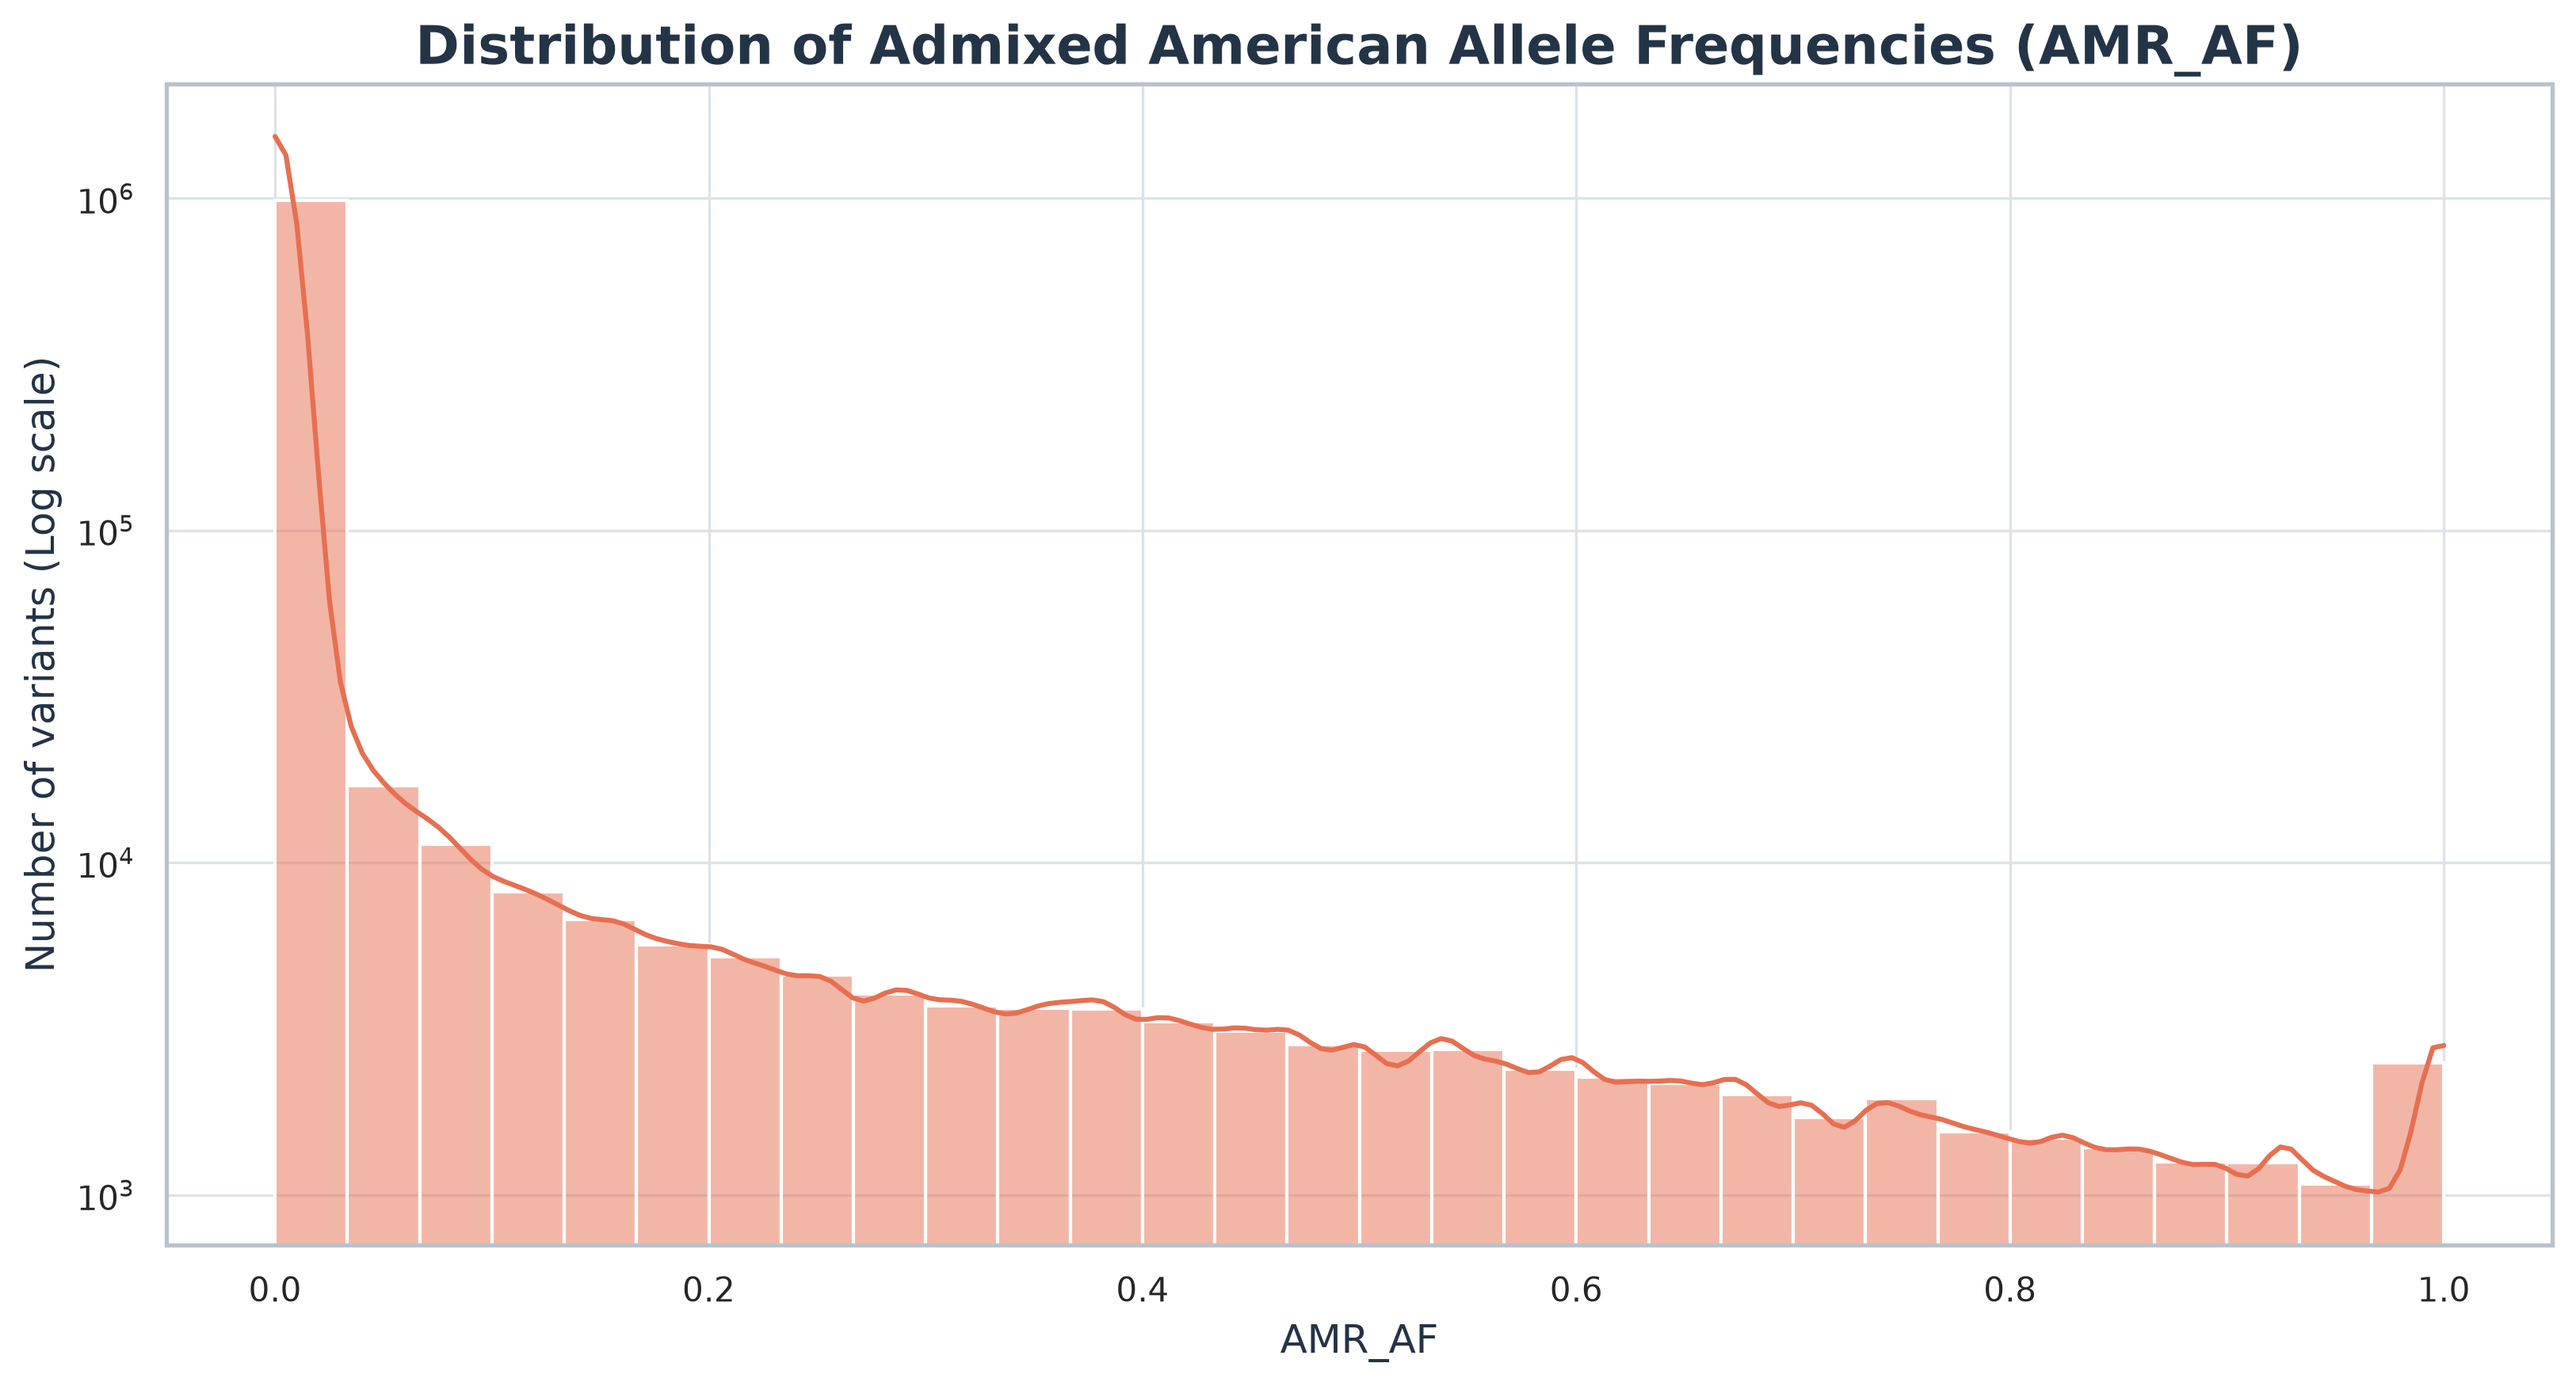
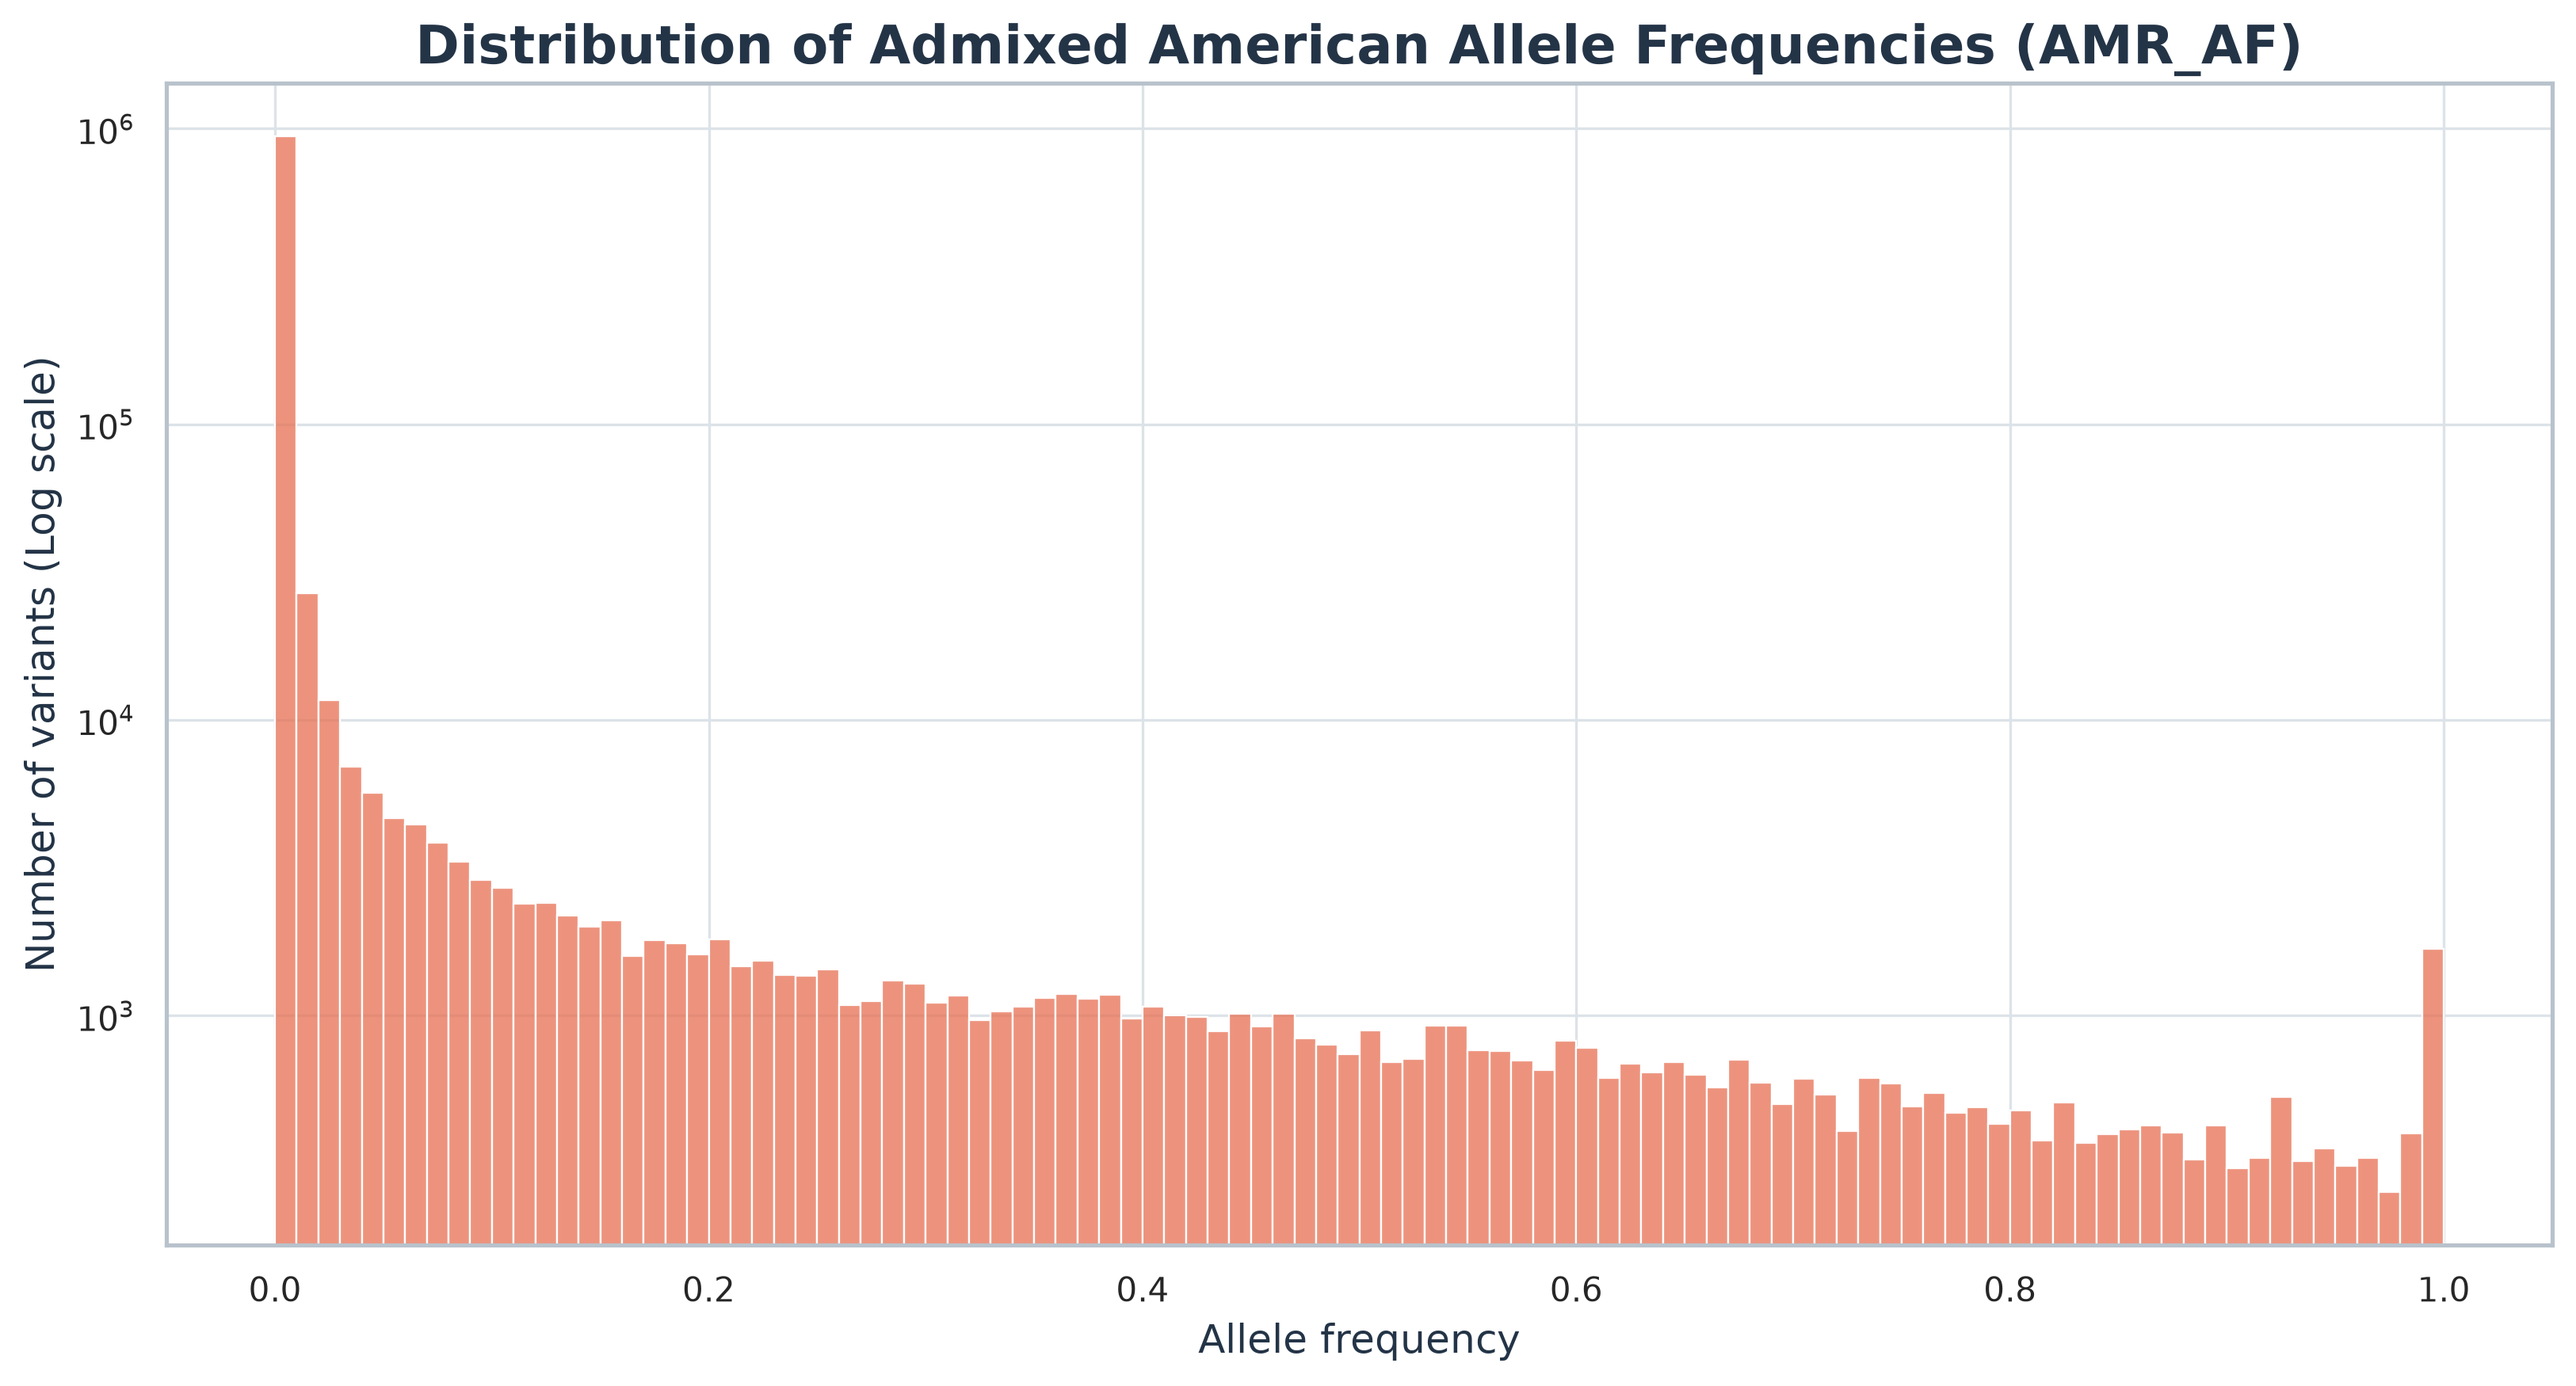
feat: VCF exploration, extraction pipeline and EDA with figures

diff --git a/src/variantes_genomicas/EDA.py b/src/variantes_genomicas/EDA.py
@@ -66,16 +66,16 @@ print(df_variants["CHROM"].sample(5))
 plt.figure(figsize=(11, 6))
 sns.histplot(
 	data=df_variants,
-	x="POS",
+	x=df_variants["POS"] / 1_000_000,
 	bins=60,
 	kde=False,
 	color=PALETTE["EUR_AF"],
 )
 plt.title('Distribution of Variant Positions on Chromosome 22')
-plt.xlabel('Chromosomal position')
+plt.xlabel('Chromosomal position (Mb)')
 plt.ylabel('Number of variants')
 plt.tight_layout()
-plt.savefig("results\\results\\figures\\POS_Distribution.png")
+plt.savefig("results\\figures\\POS_Distribution.png")
 plt.show()
 
 # ID - nos indica el identificador de la variante, si no tiene, es un punto (.) Como hemos visto no tiene ID, por lo que no nos aporta información relevante. Podemos eliminarla.
@@ -100,7 +100,7 @@ plt.xlabel("Reference allele")
 plt.ylabel("Number of variants (log scale)")
 plt.yscale("log")
 plt.tight_layout()
-plt.savefig("results\\results\\figures\\REF_count.png")
+plt.savefig("results\\figures\\REF_count.png")
 plt.show()
 
 # ALT - nos indica los alelos alternativos en esa posicion
@@ -124,7 +124,7 @@ plt.xlabel("Alternative allele")
 plt.ylabel("Number of variants (log scale)")
 plt.yscale("log")
 plt.tight_layout()
-plt.savefig("results\\results\\figures\\ALT_count.png")
+plt.savefig("results\\figures\\ALT_count.png")
 plt.show()
 
 # QUAL - nos indica la calidad de la variante, es un valor numérico que indica la confianza en la llamada de variante. Podemos visualizar su distribución.
@@ -153,16 +153,17 @@ plt.figure(figsize=(11, 6))
 sns.histplot(
 	data=df_variants,
 	x="EAS_AF",
-	bins=30,
-	kde=True,
+	bins=100,
+	binrange=(0.0, 1.0),
+	kde=False,
 	color=PALETTE["EAS_AF"],
 )
 plt.title("Distribution of East Asian Allele Frequencies (EAS_AF)")
 plt.yscale("log")
-plt.xlabel("EAS_AF")
+plt.xlabel("Allele frequency")
 plt.ylabel("Number of variants (Log scale)")
 plt.tight_layout()
-plt.savefig("results\\results\\figures\\EAS_Distribution.png")
+plt.savefig("results\\figures\\EAS_Distribution.png")
 plt.show()
 
 # AMR_AF - Frecuencia alelica para cada alelo alternativo en la población Admixed American (AMR). Valor numérico entre 0 y 1 que indica la proporción de alelos alternativos en la población AMR.
@@ -173,16 +174,17 @@ plt.figure(figsize=(11, 6))
 sns.histplot(
 	data=df_variants,
 	x="AMR_AF",
-	bins=30,
-	kde=True,
+	bins=100,
+	binrange=(0.0, 1.0),
+	kde=False,
 	color=PALETTE["AMR_AF"],
 )
 plt.title("Distribution of Admixed American Allele Frequencies (AMR_AF)")
 plt.yscale("log")
-plt.xlabel("AMR_AF")
+plt.xlabel("Allele frequency")
 plt.ylabel("Number of variants (Log scale)")
 plt.tight_layout()
-plt.savefig("results\\results\\figures\\AMR_Distribution.png")
+plt.savefig("results\\figures\\AMR_Distribution.png")
 plt.show()
 
 # AFR_AF - Frecuencia alelica para cada alelo alternativo en la población Africana (AFR). Valor numérico entre 0 y 1 que indica la proporción de alelos alternativos en la población AFR.
@@ -193,16 +195,17 @@ plt.figure(figsize=(11, 6))
 sns.histplot(
 	data=df_variants,
 	x="AFR_AF",
-	bins=30,
-	kde=True,
+	bins=100,
+	binrange=(0.0, 1.0),
+	kde=False,
 	color=PALETTE["AFR_AF"],
 )
-plt.title("Distribution of Admixed American Allele Frequencies (AFR_AF)")
+plt.title("Distribution of African Allele Frequencies (AFR_AF)")
 plt.yscale("log")
-plt.xlabel("AFR_AF")
+plt.xlabel("Allele frequency")
 plt.ylabel("Number of variants (Log scale)")
 plt.tight_layout()
-plt.savefig("results\\results\\figures\\AFR_Distribution.png")
+plt.savefig("results\\figures\\AFR_Distribution.png")
 plt.show()
 
 # EUR_AF - Frecuencia alelica para cada alelo alternativo en la población Europea (EUR). Valor numérico entre 0 y 1 que indica la proporción de alelos alternativos en la población EUR.
@@ -213,16 +216,17 @@ plt.figure(figsize=(11, 6))
 sns.histplot(
 	data=df_variants,
 	x="EUR_AF",
-	bins=30,
-	kde=True,
+	bins=100,
+	binrange=(0.0, 1.0),
+	kde=False,
 	color=PALETTE["EUR_AF"],
 )
-plt.title("Distribution of Admixed American Allele Frequencies (EUR_AF)")
+plt.title("Distribution of European Allele Frequencies (EUR_AF)")
 plt.yscale("log")
-plt.xlabel("EUR_AF")
+plt.xlabel("Allele frequency")
 plt.ylabel("Number of variants (Log scale)")
 plt.tight_layout()
-plt.savefig("results\\results\\figures\\EUR_Distribution.png")
+plt.savefig("results\\figures\\EUR_Distribution.png")
 plt.show()
 
 # SAS_AF - Frecuencia alelica para cada alelo alternativo en la población Sur Asiatica (SAS). Valor numérico entre 0 y 1 que indica la proporción de alelos alternativos en la población SAS.
@@ -233,16 +237,17 @@ plt.figure(figsize=(11, 6))
 sns.histplot(
 	data=df_variants,
 	x="SAS_AF",
-	bins=30,
-	kde=True,
+	bins=100,
+	binrange=(0.0, 1.0),
+	kde=False,
 	color=PALETTE["SAS_AF"],
 )
-plt.title("Distribution of Admixed American Allele Frequencies (SAS_AF)")
+plt.title("Distribution of South Asian Allele Frequencies (SAS_AF)")
 plt.yscale("log")
-plt.xlabel("SAS_AF")
+plt.xlabel("Allele frequency")
 plt.ylabel("Number of variants (Log scale)")
 plt.tight_layout()
-plt.savefig("results\\results\\figures\\SAS_Distribution.png")
+plt.savefig("results\\figures\\SAS_Distribution.png")
 plt.show()
 
 # VT - indioca el tipo de variante genomica
@@ -254,15 +259,13 @@ sns.countplot(
     data=df_variants,
     x="VT",
     color=PALETTE["VT"],
-    hue="VT",
-    legend=False
 )
-plt.title("Frecuency of Variant Type (VT INFO field)")
+plt.title("Frequency of Variant Type (VT INFO field)")
 plt.yscale("log")
 plt.xlabel("Genetic Variant Type")
 plt.ylabel("Number of variants (log scale)")
 plt.tight_layout()
-plt.savefig("results\\results\\figures\\VT_frecuency.png")
+plt.savefig("results\\figures\\VT_frecuency.png")
 plt.show()
 
 # BOXPLOT de distribucion de frecuencias alelicas por poblacion
@@ -294,14 +297,20 @@ sns.boxplot(
     x="Population",
     y="Allele frequency",
     order=["EAS", "AFR", "AMR", "SAS", "EUR"],
+	hue="Population",
+	hue_order=["EAS", "AFR", "AMR", "SAS", "EUR"],
     palette=[palette_by_population[p] for p in ["EAS", "AFR", "AMR", "SAS", "EUR"]],
+	dodge=False,
+	legend=False,
+	showfliers=False,
 )
-plt.title("Distribution of Allele Frequency by Population")
-plt.yscale("log")
+plt.title("Allele Frequency by Population (0-1.5% zoom)")
+plt.ylim(0, 0.015)
+plt.yticks([0, 0.005, 0.01, 0.015], ["0%", "0.5%", "1.0%", "1.5%"])
 plt.xlabel("Population")
 plt.ylabel("Allele frequency")
 plt.tight_layout()
-plt.savefig("results\\results\\figures\\boxplot.png")
+plt.savefig("results\\figures\\boxplot.png")
 plt.show()
 
 plt.figure(figsize=(11, 6))
@@ -310,14 +319,29 @@ sns.violinplot(
     x="Population",
     y="Allele frequency",
     order=["EAS", "AFR", "AMR", "SAS", "EUR"],
+	hue="Population",
+	hue_order=["EAS", "AFR", "AMR", "SAS", "EUR"],
     palette=[palette_by_population[p] for p in ["EAS", "AFR", "AMR", "SAS", "EUR"]],
+	dodge=False,
+	legend=False,
+	cut=0,
 )
-plt.title("Distribution of Allele Frequency by Population")
-plt.yscale("log")
+plt.title("Allele Frequency by Population (0-5% zoom)")
+plt.ylim(0, 0.05)
+plt.yticks([0, 0.01, 0.02, 0.03, 0.04, 0.05], ["0%", "1%", "2%", "3%", "4%", "5%"])
 plt.xlabel("Population")
 plt.ylabel("Allele frequency")
 plt.tight_layout()
-plt.savefig("results\\results\\figures\\violinplot.png")
+plt.savefig("results\\figures\\violinplot.png")
 plt.show()
+
+# EDA ASUMPTIONS:
+# 1. Hay varias columnas que no aportan variabilidad a la informacion, es decir, son constantes en todos los datos --> Valores estaticos: CHROM, QUAL, FILTER, FORMAT, ID
+# 2. Mayor presencia de variantes genicas como INDEL o SNP frente a otras
+# 3. Mayor frecuencia de las bases de A G C T frente a otras en las referencias alelicas
+# 4. No existe mucha diferencia entre la posicion de las variantes en la posicion del cromosoma
+# 5. La poblacion africana es la que presenta una distribucion e variaciones alelicas mas llamativa frente al resto de poblaciones
+
+
 
 

diff --git a/src/variantes_genomicas/explore_vcf.py b/src/variantes_genomicas/explore_vcf.py
@@ -1,6 +1,7 @@
 import gzip
 from pathlib import Path
 
+import numpy as np
 import pandas as pd
 
 
@@ -75,3 +76,55 @@ df_variants_processed.drop(columns=["INFO"], inplace=True)
 final_df = pd.concat([df_variants_processed, info_df], axis=1)
 print(final_df.head())
 final_df.to_csv("C:\\Users\\alexm\\Entornos\\genomic_variants_dashboard\\data\\processed\\final_variants_chr22.csv", index=False)
+
+# Modificacion final para TABLEAU
+# Creamos una unica columna para la poblacion y su frecuencia alelica
+AF_COLUMNS = [
+    "EAS_AF",
+    "AMR_AF",
+    "AFR_AF",
+    "EUR_AF",
+    "SAS_AF",
+]
+
+tableau_variants = final_df.melt(
+    id_vars=[column for column in final_df.columns if column not in AF_COLUMNS],
+    value_vars=AF_COLUMNS,
+    var_name="population",
+    value_name="Allele Frequency",
+)
+tableau_variants["population"] = tableau_variants["population"].str.removesuffix("_AF")
+tableau_variants.to_csv(
+    "C:\\Users\\alexm\\Entornos\\genomic_variants_dashboard\\data\\processed\\tableau_variants_chr22.csv",
+    index=False,
+)
+
+# Add stable IDs without changing the melted rows or their order.
+variant_count = len(final_df)
+population_order = [column.removesuffix("_AF") for column in AF_COLUMNS]
+expected_rows = variant_count * len(AF_COLUMNS)
+
+if len(tableau_variants) != expected_rows:
+    raise ValueError("The long-form CSV must contain five rows per original variant.")
+
+for block_index, population in enumerate(population_order):
+    start = block_index * variant_count
+    end = start + variant_count
+    if not tableau_variants["population"].iloc[start:end].eq(population).all():
+        raise ValueError(f"Expected the {population} population block at rows {start}:{end}.")
+
+tableau_variants["VariantID"] = np.tile(
+    np.arange(variant_count, dtype="int64"),
+    len(AF_COLUMNS),
+)
+
+if not np.array_equal(
+    tableau_variants["VariantID"].to_numpy().reshape(len(AF_COLUMNS), variant_count),
+    np.broadcast_to(np.arange(variant_count), (len(AF_COLUMNS), variant_count)),
+):
+    raise ValueError("Each original variant must have the same VariantID in all populations.")
+
+tableau_variants.to_csv(
+    "C:\\Users\\alexm\\Entornos\\genomic_variants_dashboard\\data\\processed\\tableau_variants_chr22_with_variant_id.csv",
+    index=False,
+)
